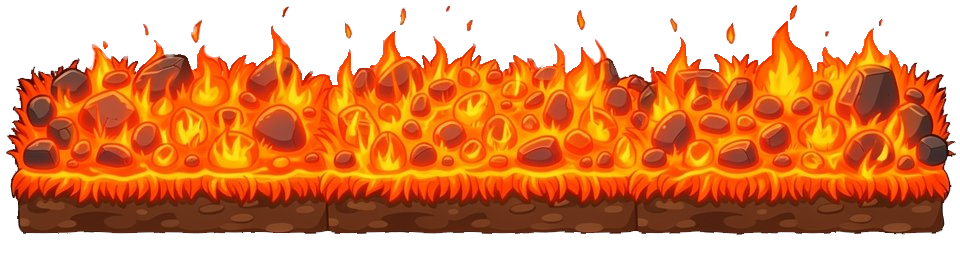
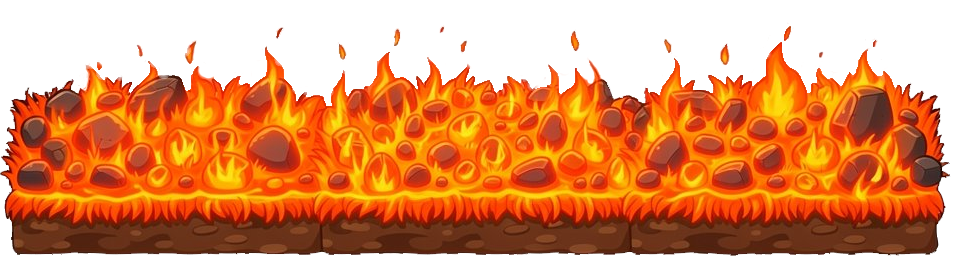
block fix

diff --git a/main/walls/block/PROMPT.md b/main/walls/block/PROMPT.md
@@ -1,0 +1,129 @@
+# Промт для FLUX.2 — кирпичная стена (block, lo = 10)
+
+Разрушаемая кирпичная кладка: мяч бьёт снизу и сносит **один ряд за удар**, снизу
+вверх ([`block.script`](block.script:26)). Ряды не нарисованы на состояния — их
+отсекает шейдер [`block.fp`](block.fp:24), поэтому важна только «идеальная»
+текстура с ровной сеткой кладки.
+
+Геометрия блока: quad `140 × 112.5` локальных единиц, Y от `-50` до `+62.5`
+([`block.buffer`](block.buffer:7)), текстура растягивается на всю площадь.
+Всего рядов по умолчанию `rows = 8` ([`block.script`](block.script:15)).
+
+Срез разбитых рядов задаётся не формулой, а таблицей `ROW_CUT` в
+[`block.script`](block.script:24) — она снята с готовой текстуры скриптом
+[`tools/gen_block_rows.py`](../../../tools/gen_block_rows.py). Поэтому ряды
+не обязаны быть идеально равными: после замены `block.png` достаточно
+перегенерировать таблицу. Важно только, чтобы каждый ряд был отделён
+видимым швом раствора — по нему и проходит срез.
+
+Стиль серии — как у остальных ассетов игры: 2D-спрайт, плоский cel-shading,
+толстый тёмный контур, яркие насыщенные цвета, чистые векторные формы.
+
+---
+
+## 1. Основной промт (копировать целиком, EN)
+
+```
+Cute cartoon 2D game asset, flat front view, isolated on pure white background, no
+perspective, no cast shadows. A rectangular red brick wall block, almost square (thin
+vertical wall), built of warm red bricks (#C0392B, #B03A2E, #A93226 randomly varied)
+with pale sandy-grey mortar joints. Exactly eight horizontal courses of equal height,
+four bricks per course, every second course offset by half a brick, thin dark outlines
+around each brick, flat cel shading with one soft light highlight on the top edge of
+each brick and one darker shade on the bottom edge, a few tiny chips, cracks and
+speckles for a hand-drawn cartoon look, crisp vector-like edges. A single thin green
+jungle vine wraps the wall very sparsely: a slim glossy stem with a twisted spiral
+texture climbing up the left edge in a loose S-curve, only three or four small cartoon
+leaves, one curly tendril at the top — mostly bare brick is still visible, the vine
+covers only a small part of the wall. Vibrant saturated colors, thick cartoon outline,
+mobile arcade platformer style, 8k game asset
+```
+
+## 2. Короткая версия (если модель режет длинный промт)
+
+```
+2D cartoon platformer brick wall, red bricks with grey mortar, exactly 8 equal rows,
+4 bricks per row, half-brick offset, thick dark outlines, flat cel shading, one thin
+green vine with 3-4 small leaves climbing sparsely up the left edge, white background,
+flat front view, game asset
+```
+
+## 3. Вариант для длинной стены из нескольких блоков (тайлится по горизонтали)
+
+Длинная стена в игре собирается из нескольких блоков подряд, поэтому лиана
+должна стыковаться: у левого края — поднимающийся стебель, у правого — его
+продолжение с листом. Тогда повторы читаются как одна непрерывная лиана.
+
+```
+... the same red brick wall block, seamless horizontal tiling: the green vine enters
+at the bottom-left corner, climbs up along the left edge, its stem leaves the frame at
+the top-right corner and a matching stem stub with one leaf returns at the same height
+on the right edge, so the pattern repeats continuously; thin sandy mortar joints align
+across the left and right borders, brick courses cut exactly at the frame edges,
+seamless repeating pattern, no visible seam ...
+```
+
+## 4. Вариант без лианы (базовая кладка, если лиана мешает читаемости)
+
+```
+... the same red brick wall block, clean bare masonry, exactly 8 equal courses, thick
+dark cartoon outline, flat cel shading, small chips and speckles only, no plants, no
+vine, no moss ...
+```
+
+## 5. Что писать в negative prompt
+
+```
+text, watermark, logo, letters, numbers, ui, characters, faces, hands, 3d render,
+realistic photo, photorealistic brick texture, mortar haze, soft blurry edges, heavy
+gradients, drop shadow, ambient occlusion, background scenery, ground, grass, sky,
+perspective, isometric, tilted camera, side view with visible depth, diagonal wall,
+rounded corners, uneven brick rows, more than 8 rows, ivy covering the whole wall, dense
+foliage, moss everywhere, flowers, broken hole, missing bricks, fire, damage
+```
+
+## 6. Технические требования к результату
+
+| Параметр | Значение |
+|---|---|
+| Соотношение сторон | `140 : 112.5` ≈ 1.244:1 (например `1120×900` или `1400×1125`) |
+| Ряды кладки | **ровно 8**, каждый отделён швом раствора |
+| Кирпичей в ряду | 3–4, чётные ряды смещены на полкирпича |
+| Ориентация | плоский вид спереди, строго вертикальная стена, без наклона |
+| Края | кирпичи обрезаны рамкой ровно по шву, кладка уходит за край (нужно для стыковки блоков в длинную стену) |
+| Лиана | одна, тонкая, занимает не более ~15 % площади, у левого края |
+| Фон | чистый белый (`#FFFFFF`), альфу FLUX не отдаёт — вырезать пост-обработкой |
+| Контур | толстый, тёмный, замкнутый по силуэту блока и по каждой лиане |
+| Прозрачность | у модели не просить, только пост-обработкой |
+
+## 7. Важное ограничение движка (учесть при подготовке PNG)
+
+Шейдер [`block.fp`](block.fp:26) отбрасывает всё, что **ниже** локального Y
+`brick_break.x`, а значение среза берётся из таблицы `ROW_CUT` в
+[`block.script`](block.script:24) (локальные координаты `-50..+62.5`).
+Значит:
+
+1. Таблица `ROW_CUT` должна соответствовать новой текстуре — после замены
+   `block.png` запустить `py tools/gen_block_rows.py` и перенести полученный
+   список в [`block.script`](block.script:24).
+2. Разбитые ряды исчезают **без** анимации и без обломков — не рисовать на
+   текстуре осыпающиеся кирпичи, крошку у нижнего края и «дыры»: они будут
+   висеть в воздухе.
+3. Текстура не тайлится по вертикали: низ и верх должны быть разными
+   (низ — обычный ряд, верх — обычный ряд, без обрезки «на половину» по
+   горизонтали).
+
+## 8. Порядок работы
+
+1. Сгенерировать квадрат ~`1024×1024` — так модель лучше держит пропорции
+   кирпичей и лианы.
+2. Проверить, что рядов ровно 8 и каждый отделён швом раствора.
+3. Вписать в `1400×1125` (или сразу уменьшить до целевого `140×112.5` с
+   nearest-neighbour, чтобы контур остался резким).
+4. Вырезать белый фон, сохранить как [`block.png`](block.png).
+5. Перегенерировать таблицу срезов: `py tools/gen_block_rows.py`, перенести
+   `ROW_CUT` в [`block.script`](block.script:24) и стартовое значение
+   `brick_break.x` в [`block.material`](block.material:24).
+6. Проверить в игре: после 1–7 ударов срез должен идти строго по шву между
+   рядами, а лиана не должна «висеть» после разрушения нижних рядов —
+   если она доходит до низа, укоротить её до верхней половины стены.
